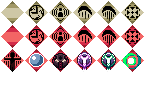
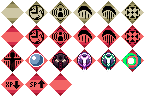
2.18.1
Added postShoot variants (unused)

Changed region(s): [[0.0, 0.75, 0.5, 1.0]]

diff --git a/changelog.md b/changelog.md
@@ -1,3 +1,20 @@
+## 2.18.1 (08/04/2025)
+### (not)New Content
+- Split all Hexacast postShoot animations into distinct 1-handed and 2-handed versions (new sprites)
+- This exacerbates the issue caused by the game's forced aim->preidle->idle animation performed after any throw art or throw attack
+- As a result, added the original postShoot animations back while keeping the new ones as unused
+### Changes
+- Adjusted animation timing for Hexacast Ragnarök (visual only)
+- Improved effect scorchingSwirlHexagons2
+- Proxy spellTagCard now appears further away from its target before attacking
+- Repositioned floatEC sheet within Hexacast spritesheet
+- Added hover and hoverMove walkAnim definitions to Hexacast player/character files
+### Fixes
+- Fixed particle pScale timings for effects spiritBlastHexagons and spiritBlastHexagonsRev
+- Deleted redundant "hovering" sheet in Hexacast animation files
+### Balance
+- Spell Tag dash speed decreased from 350 to 325
+
 ## 2.18.0 (08/03/2025)
 ### General
 - Hexacast litter mod updated to 2.1.2
@@ -46,7 +63,7 @@
 - Spectral Swordsman hpFactor increased from 2.5 to 2.65 (will survive 2 charged shots now)
 - Chilling Thrust initial hitbox made smaller and reduced from MASSIVE to HEAVY
 - Fire Saw strength reduced from HEAVY to MEDIUM
-- Fire Saw knockback reduced from MEDIUM to HEAVY
+- Fire Saw knockback reduced from MASSIVE to HEAVY
 - Fire Saw damageFactor reduced from 2.7 to 2.25
 - Frost Rupture now grants MEDIUM hit stability during initial hits, MASSIVE stability during final thrust
 ### Balance (Hexacast)
